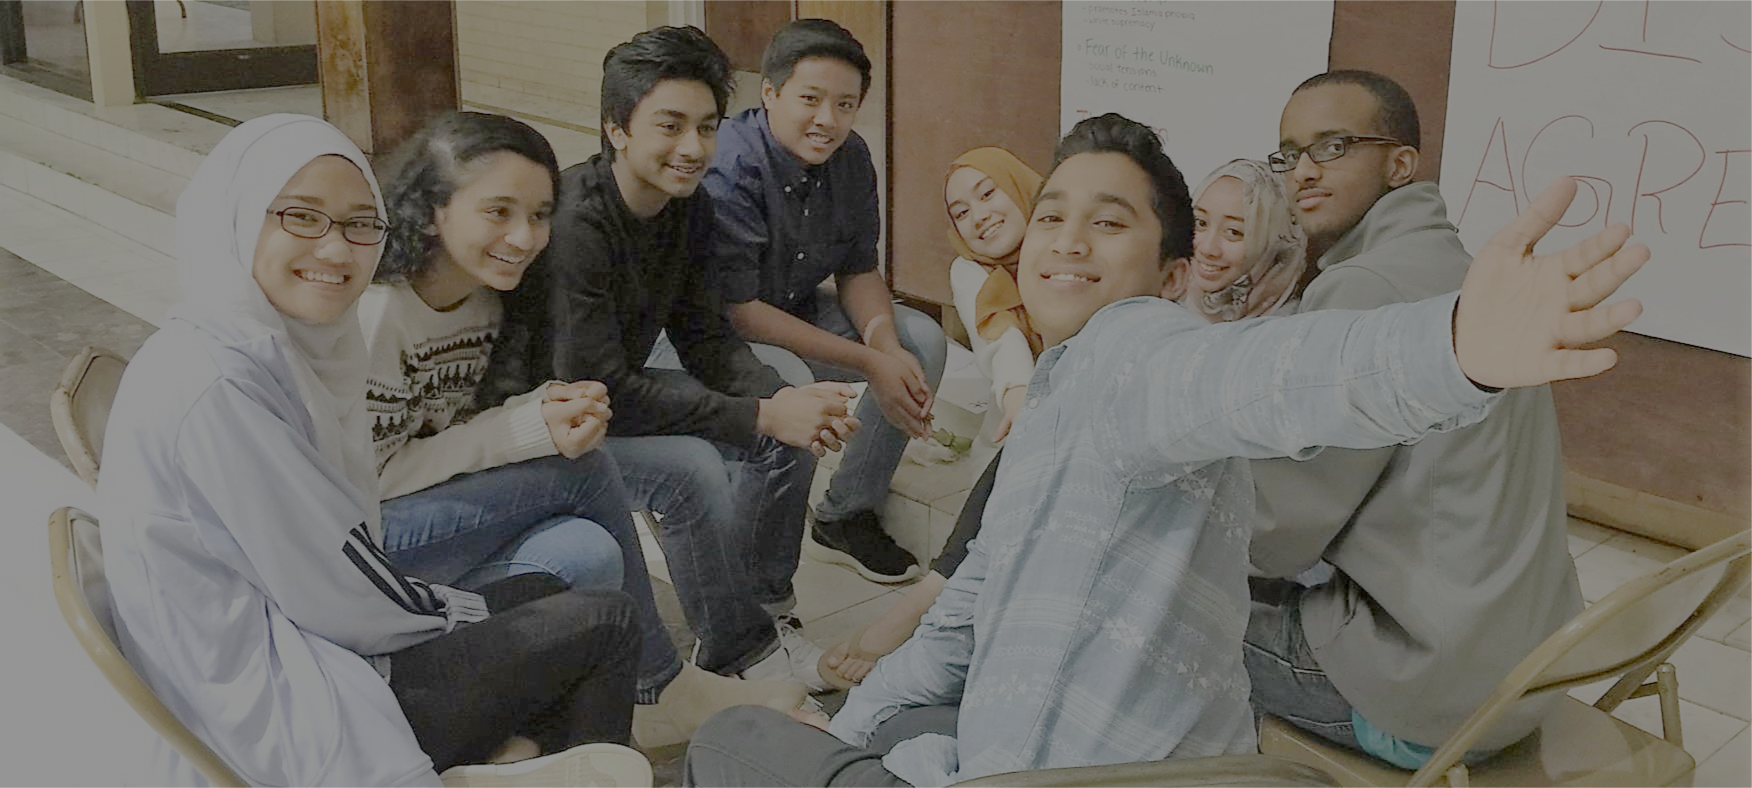
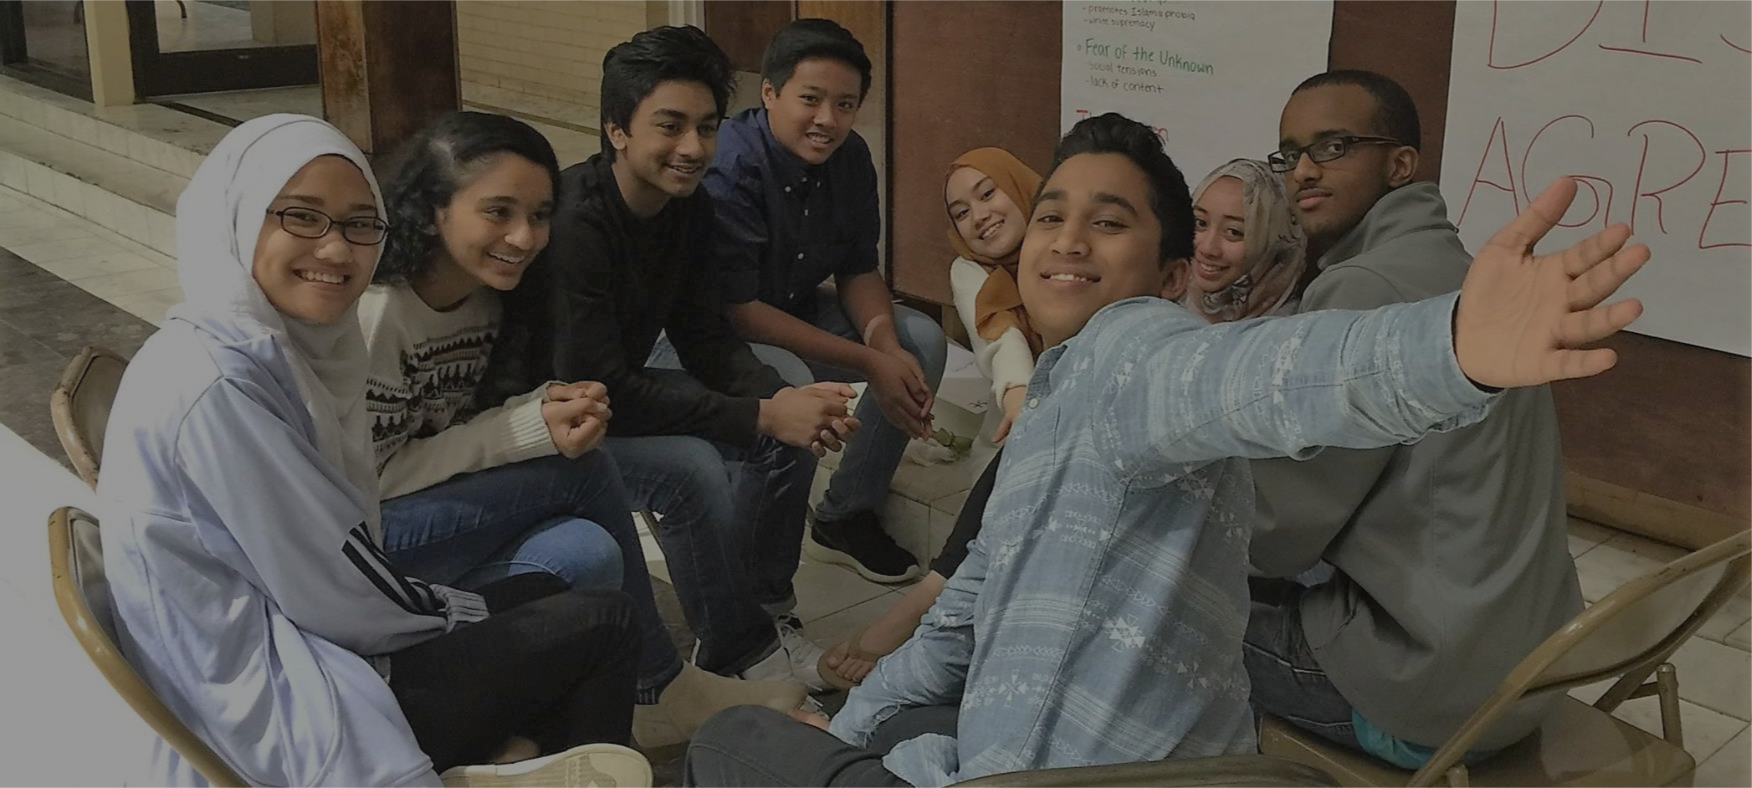
getting there. took a while to figure out.

diff --git a/homepage.html b/homepage.html
@@ -30,29 +30,63 @@ console.log("Hello")
 
 </head>
 <body>
-
 <!-- NAV BAR -->
-<nav class="navbar navbar-fixed-top navbar-inverse">
+<nav id="nav-1" class="navbar navbar-fixed-top navbar-tranparent">
   <div class="container-fluid">
     <div class="navbar-header">
-      <a class="navbar-brand" href="#">WebSiteName</a>
+      <a class="navbar-brand" href="homepage.html">
+        <span id="title">
+          <span id="Y">Y</span>oung
+          <span id="L">L</span>eaders
+        </span>
+          <br>
+          <span id="under_title">I N S T I T U T E</span>
+      </a>
+    </div>
+<div class="navbar-nav">
+  <a class="nav_names" href="homepage.html">Home</a>
+  <a class="nav_names" href="#">About</a>
+  <a class="nav_names" href="#">Register</a>
+  <a class="nav_names" href="#">Contact</a>
+</div>
+
+  <div class="navbar-nav navbar-right">
+    <a class="nav_names" href="#"><span class="glyphicon glyphicon-user"></span>   Sign Up</a>
+    <a class="nav_names" href="#"><span class="glyphicon glyphicon-log-in"></span>    Login</a>
+  </div>
+
+</nav>
+<!-- <div id="navbar">
+<nav class="navbar navbar-fixed-top navbar-transparent" role="navigation">
+  <div class="container-fluid">
+    <div class="navbar-header">
+      <a class="navbar-brand" href="homepage.html">
+        <span id="title">
+          <span id="Y">Y</span>oung
+          <span id="L">L</span>eaders
+        </span>
+          <br>
+          <span id="under_title">I N S T I T U T E</span>
+      </a>
     </div>
     <ul class="nav navbar-nav">
-      <li class="active"><a href="#">Home</a></li>
-      <li><a href="#">Page 1</a></li>
-      <li><a href="#">Page 2</a></li>
+      <li class="active"><a href="homepage.html"><span id="nav_names">Home</span></a></li>
+      <li><a href="#"><span id="nav_names"><span id="nav_names">About</span></span></a></li>
+      <li><a href="#"><span id="nav_names">Register</span></a></li>
+      <li><a href="#"><span id="nav_names">Contact</span></a></li>
     </ul>
     <ul class="nav navbar-nav navbar-right">
-      <li><a href="#"><span class="glyphicon glyphicon-user"></span> Sign Up</a></li>
-      <li><a href="#"><span class="glyphicon glyphicon-log-in"></span> Login</a></li>
+      <li><a href="#"><span class="glyphicon glyphicon-user" style="color:white"></span>  <span id="nav_names">Sign Up</span></a></li>
+      <li><a href="#"><span class="glyphicon glyphicon-log-in" style="color:white"></span>  <span id="nav_names">Login</span></a></li>
     </ul>
   </div>
 </nav>
+</div> -->
 <!--  -->
 
 <!-- TITLE PIC -->
 <div class="title_img">
-  <img id="title_pic" src="titlepic.png" alt="">
+  <img id="title_pic" src="titlepic2.png" alt="">
   <h2 id-"title_pic_text">LEADING YOUTH TO GREATNESS</h2>
 </div>
 <!--  -->

diff --git a/homepage.css b/homepage.css
@@ -2,19 +2,60 @@
 font-family: 'Open Sans', sans-serif;
 font-family: 'Roboto Condensed', sans-serif;*/
 
-
-title{
-  font-size: 24px;
-  color: 00000;
+/*TITLE*/
+#title{
+  font-family: 'EB Garamond', serif;
+  font-weight: bold;
+  font-size: 40px;
+  color: #FFFFFF;
+}
+#Y{
+  color: #02F7D6;
+}
+#L{
+  color: #BDF705;
+}
+#under_title{
+  font-family: 'Open Sans', sans-serif;
+  font-size: 14px;
+  color: #FFFFFF;
+  margin-left: 120px;
 }
 
 
 
 /*NAV BAR*/
-nav{
-  @navbar-height: 15%;
+nav {
+  font-family: 'Open Sans', sans-serif;
+  font-size: 23px;
+  /*margin-top: 40px;*/
+  padding: 30px;
+  text-align: center;
+  box-shadow: 2px 2px 8px rgba(o, 0, 0, 1);
 }
-/**/
+#nav-1 {
+  background-color: transparent;
+}
+
+.nav_names{
+  transition: 0.3s ease;
+  background-color:transparent;
+  color: #ffffff;
+  font-size: 20px;
+  text-decoration: none;
+  padding: 20px 0;
+  margin: 0 20px;
+}
+.nav_names:hover {
+  border-top: 4px solid #ffffff;
+  border-bottom: 4px solid #ffffff;
+  padding: 6px 0;
+  color: #FFFFFF;
+  text-decoration: none;
+}
+
+
+
 
 
 /*HOMEPAGE IMG*/
@@ -26,19 +67,20 @@ nav{
   width: 100%;
   height: 650px;
   opacity: 50%;
-  margin-top: 3%;
   filter: sepia(5%);
   vertical-align: baseline;
 }
 h2 {
    position: absolute;
    top: 325px;
-   left: 500px;
+   text-align: center;
    width: 100%;
    color: white;
    font-family: 'EB Garamond', serif;
    font-weight: bolder;
-   font-size: 51px;
+   font-size: 55px;
+   /*border-radius: 0 0 10px 10px;*/
+   /*border-color: white;*/
 }
 /**/
 
